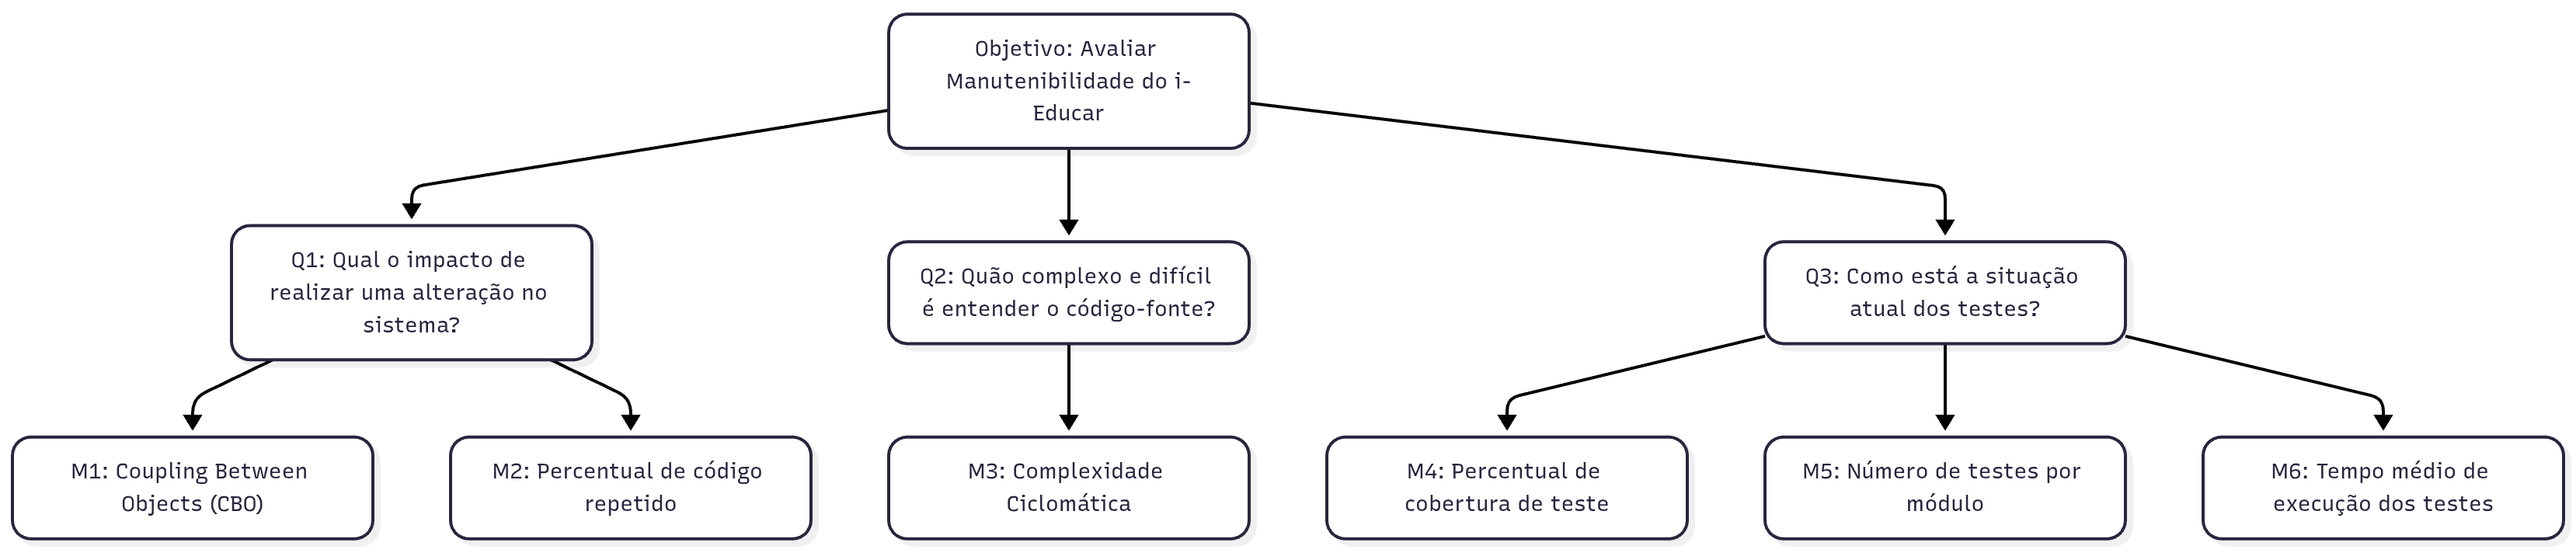
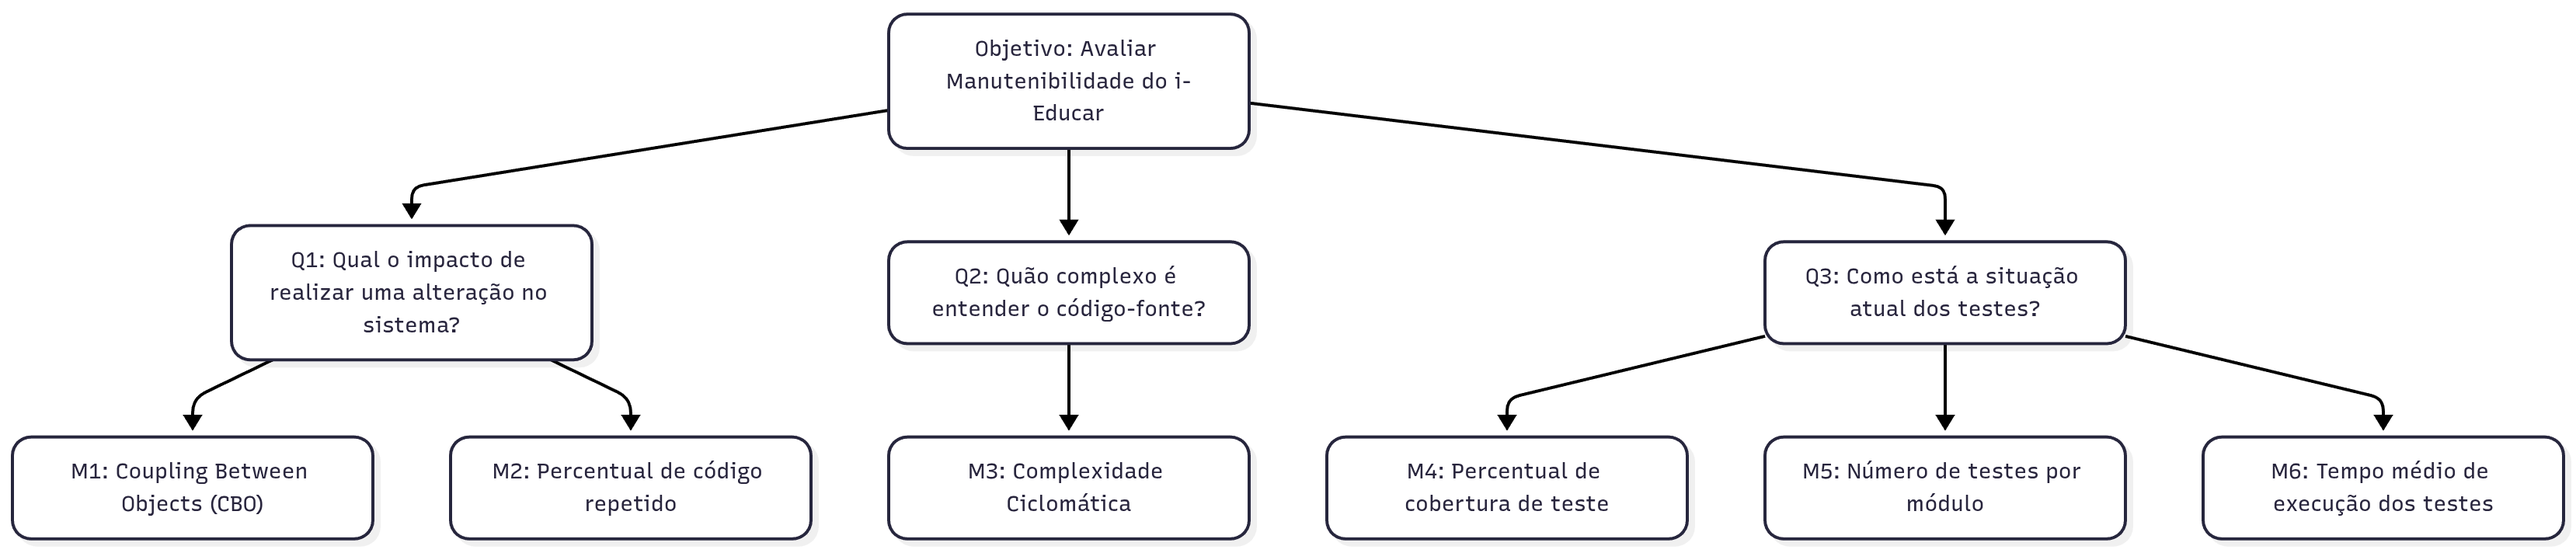
padronizei as legendas das imagens e tabelas

Changed region(s): [[0.3417, 0.4635, 0.4659, 0.5871]]

diff --git a/docs/fase_1/modelo-qualidade.md b/docs/fase_1/modelo-qualidade.md
@@ -2,6 +2,10 @@
 
 ![Modelo de qualidade](../assets/modelo-qualidade.jpg)
 
+<div align="center">
+  <font size="4"><figcaption>Figura 3: Modelo de Qualidade</figcaption></font>
+</div>
+
 ## Características de Qualidade
 
 Para a avaliação de qualidade do software i-Educar, foram selecionadas e priorizadas três características do modelo de qualidade de produto da norma ISO/IEC 25010: **Confiabilidade**, **Segurança** e **Manutenibilidade**. A escolha foi guiada por um método explícito e quantitativo para garantir uma decisão robusta, alinhada aos objetivos do negócio e às necessidades dos stakeholders.
@@ -34,6 +38,10 @@ A análise resultou na seguinte classificação, que abrange todas as caracterí
 | Compatibilidade | 2 | 2 | 3 | 1,3 | — |
 | Portabilidade | 2 | 1 | 2 | 1,0 | — |
 
+<div align="center">
+  <font size="4"><figcaption>Tabela 1: Classificação das características</figcaption></font>
+</div>
+
 ### 3. Justificativas da Priorização
 
 A seleção das três características principais é justificada pelo contexto crítico do i-Educar como um sistema de gestão educacional para o setor público.
@@ -44,8 +52,16 @@ A seleção das três características principais é justificada pelo contexto c
 | **2. Segurança** | A Segurança (Peso 10,0) é fundamental, pois o sistema processa um grande volume de dados pessoais e sensíveis de menores de idade, enquadrando-se diretamente nas exigências da Lei Geral de Proteção de Dados (LGPD). Uma falha de segurança exporia dados, resultaria em sanções legais e quebraria a confiança da comunidade. <br> **Stakeholders:** Essencial para **Gestores educacionais** (compliance regulatório), **Alunos/Responsáveis** (proteção de sua privacidade) e **Desenvolvedores** (uma única vulnerabilidade pode comprometer toda a aplicação). |
 | **3. Manutenibilidade**| A Manutenibilidade (Peso 8,0) é crucial para a sustentabilidade de um projeto de software livre como o i-Educar. Sua arquitetura legada exige esforço contínuo de evolução, correção de bugs e adaptação a novas regulamentações. Um código de fácil manutenção reduz o custo de propriedade a longo prazo e incentiva a colaboração. <br> **Stakeholders:** Facilita o trabalho da **Comunidade OSS** (contribuições e correções), reduz custos para os **Órgãos públicos** e viabiliza a customização por **Fornecedores** locais. |
 
+<div align="center">
+  <font size="4"><figcaption>Tabela 2: Justificativas das características priorizadas</figcaption></font>
+</div>
+
 O diagrama abaixo representa o organograma das características e subcaracterísticas escolhidas para o processo de avaliação de qualidade do i-Educar:
 ![Organograma das características e subcaracterísticas](../assets/caracteristicas-organograma%20.png)
+
+<div align="center">
+  <font size="4"><figcaption>Figura 4: Organograma das características selecionadas</figcaption></font>
+</div>
 
 ### 4. Trade-offs Estratégicos Considerados
 

diff --git a/docs/index.md b/docs/index.md
@@ -10,10 +10,6 @@ O i-Educar é um software livre que descomplica e torna mais eficaz a gestão do
 
 A plataforma é utilizada por mais de 80 municípios brasileiros, atende mais de 2050 alunos e impacta mais de 500.000 alunos. Por conta de sua relevância e do contexto educacional que ele visa impactar, o grupo teve forte interesse em utilizá-lo como software de análise na disciplina.
 
-<div align="center">
-  <font size="4"><p style="text-align: center; margin-bottom: 50px;"><b>Figura 1: Logo i-Educar</b></p></font>
-</div>
-
 <div
     align="center">
     <img
@@ -21,6 +17,10 @@ A plataforma é utilizada por mais de 80 municípios brasileiros, atende mais de
     alt="Logo do i-Educar"
     style=" max-width: 80%; height: auto; margin-bottom: 20px;"
     >
+</div>
+
+<div align="center">
+  <font size="4"><figcaption>Figura 1: Logo i-Educar</figcaption></font>
 </div>
 
 ---
@@ -44,10 +44,6 @@ Após a guerra, Herman Goldstine passou a integrar o **Instituto de Estudos Avan
 
 Adele Goldstine é reconhecida como uma das figuras fundamentais da história da computação. Seu trabalho abriu espaço para mulheres na área, num contexto em que sua atuação era muitas vezes invisibilizada. Hoje, sua biografia inspira pesquisas acadêmicas e movimentos pela valorização das pioneiras da ciência e tecnologia.
 
-<div align="center">
-  <font size="4"><p style="text-align: center; margin-bottom: 50px;"><b>Figura 2: Adele Goldstine</b></p></font>
-</div>
-
 <div
     align="center">
     <img
@@ -55,6 +51,10 @@ Adele Goldstine é reconhecida como uma das figuras fundamentais da história da
     alt="Retrato da Adele Goldstine"
     style=" max-width: 80%; height: auto; margin-bottom: 20px;"
     >
+</div>
+
+<div align="center">
+  <font size="4"><figcaption>Figura 2: Adele Goldstine</figcaption></font>
 </div>
 
 ---

diff --git a/docs/fase_2/gqm_manutenibilidade.md b/docs/fase_2/gqm_manutenibilidade.md
@@ -11,10 +11,14 @@ O objetivo de medição está definido conforme o template GQM (Goal-Question-Me
 | Elemento | Descrição |
 |----------|-----------|
 | Analisar | i-Educar |
-| Propósito | AVALIAR |
-| Respeito a | MANUTENIBILIDADE |
-| Ponto de Vista | EQUIPE DE DESENVOLVIMENTO |
-| Contexto | DISCIPLINA DE QUALIDADE DE SOFTWARE 1 |
+| Propósito | Avaliar |
+| Respeito a | Manutenibilidade |
+| Ponto de Vista | Equipe de desenvolvimento |
+| Contexto | Disciplina de Qualidade de Software 1 |
+
+<div align="center">
+  <font size="4"><figcaption>Tabela 2: Objetivo de Medição: Manutenibilidade</figcaption></font>
+</div>
 
 ## Perguntas, Hipóteses e Métricas
 
@@ -32,7 +36,7 @@ Este objetivo se desdobra em três perguntas chave, cada uma abordando um aspect
 | **M1: Coupling Between Objects (CBO)** | ✅ **Bom:** CBO ≤ 10<br>⚠ **Aceitável:** 10 < CBO ≤ 15<br>❌ **Crítico:** CBO > 15 |
 | **M2: Percentual de Código Repetido** | ✅ **Bom:** M2 ≤ 3%<br>⚠ **Aceitável:** 3% < M2 ≤ 5%<br>❌ **Crítico:** M2 > 5% |
 
-### Pergunta 2: Quão complexo e difícil é entender o código-fonte do i-Educar?
+### Pergunta 2: Quão complexo é entender o código-fonte do i-Educar?
 
 | Item | Descrição |
 |------|-----------|
@@ -71,5 +75,8 @@ Este objetivo se desdobra em três perguntas chave, cada uma abordando um aspect
 
 
 ![Diagrama](../assets/GQM-manutenibilidade.png)
-<figcaption>Figura 1: Diagrama GQM. Autor: <a href="http://github.com/andre-maia51">André Maia</figcaption>
+
+<div align="center">
+  <font size="4"><figcaption>Figura 3: Diagrama GQM. Autor: <a href="http://github.com/andre-maia51">André Maia</figcaption></font>
+</div>
 

diff --git a/docs/fase_1/objeto-estudo.md b/docs/fase_1/objeto-estudo.md
@@ -27,6 +27,10 @@ A arquitetura do i-Educar é modular, o que facilita a análise de componentes e
 
 ![Arquitetura do i-Educar](../assets/arquitetura.png)
 
+<div align="center">
+  <font size="4"><figcaption>Figura 1: Diagrama de alto nível dos módulos do i-Educar</figcaption></font>
+</div>
+
 Essa estrutura de código aberto tem implicações diretas na nossa avaliação:
 
 * **O que é possível medir:** Dado o acesso completo ao código-fonte no GitHub, podemos realizar uma análise estática aprofundada da **Manutenibilidade** do software, utilizando ferramentas para medir a complexidade do código, a duplicação e a aderência a padrões de desenvolvimento. Da mesma forma, a **Segurança** pode ser avaliada através da busca por vulnerabilidades conhecidas no código.
@@ -64,6 +68,10 @@ O i-Educar se classifica como um **Sistema de Gestão Educacional (SGE)** de có
 Aqui descrevemos os Objetivos de Desenvolvimento Sustentável com os quais o i-Educar se conecta, com metas/indicadores relevantes e justificativas de como o software pode contribuir para alcançá-los.
 
 ![ODS relacionada](../assets/ods.png)
+
+<div align="center">
+  <font size="4"><figcaption>Figura 2: Objetivos de Desenvolvimento Sustentável relacionados ao projeto</figcaption></font>
+</div>
 
 ### ODS 4 — Educação de Qualidade
 

diff --git a/docs/fase_2/gqm_seguranca.md b/docs/fase_2/gqm_seguranca.md
@@ -14,9 +14,9 @@ A análise de segurança do sistema i-Educar tem como propósito fundamental gar
 | **Do ponto de vista da** | Equipe de desenvolvimento                                              |
 | **No contexto da**       | Disciplina de Qualidade de Software 1 (FCTE - UnB)                     |
 
-
-<p align="center"><b>Tabela 3</b> - Objetivo de Medição 3: Segurança</p>
-
+<div align="center">
+  <font size="4"><figcaption>Tabela 3: Objetivo de Medição: Segurança</figcaption></font>
+</div>
 
 Utilizando o modelo Goal Question Metric (GQM), essa análise traduz a preocupação abstrata com a segurança em metas mensuráveis, por meio das seguintes diretrizes:
 
@@ -111,5 +111,7 @@ Esta análise contextualiza a segurança não apenas como um requisito técnico,
 
 ![Relação entre a Segurança, Perguntas e Métricas](../assets/diagrama_seguranca.png)
 
-<p align="center"><b>Figura 3</b> - Diagrama ilustrando a relação entre a característica de Segurança, as perguntas formuladas e as métricas definidas na abordagem GQM.</p>
+<div align="center">
+  <font size="4"><figcaption>Figura 4: Diagrama ilustrando a relação entre a característica de Segurança, as perguntas formuladas e as métricas definidas na abordagem GQM.</figcaption></font>
+</div>
 

diff --git a/docs/fase_2/gqm_confiabilidade.md b/docs/fase_2/gqm_confiabilidade.md
@@ -7,7 +7,10 @@
 | **Do ponto de vista da** | Comunidade de desenvolvedores |
 | **No contexto da**     | Disciplina de Qualidade de Software |
 
-**Tabela 1** - Objetivo de Medição 1: Confiabilidade.
+<div align="center">
+  <font size="4"><figcaption>Tabela 1: Objetivo de Medição: Confiabilidade</figcaption></font>
+</div>
+
 ---
 
 ### Perguntas e Hipóteses de Medição
@@ -107,5 +110,6 @@ A professora achou que tinha muita coisa
 
 ![Relação entre a Confiabilidade, Perguntas e Métricas](../assets/diagrama_confiabilidade.png)
 
-<p align="center"><b>Figura 1</b> - Diagrama ilustrando a relação entre a característica de Confiabilidade, as perguntas formuladas e as métricas definidas na abordagem GQM.</p>
-
+<div align="center">
+  <font size="4"><figcaption>Figura 2: Diagrama ilustrando a relação entre a característica de Confiabilidade, as perguntas formuladas e as métricas definidas na abordagem GQM.</figcaption></font>
+</div>

diff --git a/docs/fase_2/niveis_pontuacao_criterios_julgamento.md b/docs/fase_2/niveis_pontuacao_criterios_julgamento.md
@@ -17,6 +17,10 @@ A seguir, apresenta-se a escala de pontuação definida pela equipe:
 | **Regular** | 4 - 6 | Apresenta deficiências perceptíveis que podem indicar débito técnico ou risco moderado. |
 | **Insatisfatório** | 1 - 3 | Compromete significativamente a característica de qualidade, exigindo atenção e provável refatoração. |
 
+<div align="center">
+  <font size="4"><figcaption>Tabela 4: Níveis de pontuação e critérios de julgamento</figcaption></font>
+</div>
+
 ### Critérios para Julgamento
 
 Com base nas métricas e nos níveis de pontuação definidos, foram estabelecidos critérios de julgamento para interpretar os resultados da avaliação e apoiar a tomada de decisões. Os critérios são organizados por característica e baseiam-se na média de desempenho das métricas associadas a cada uma delas.

diff --git a/docs/fase_2/introducao_gqm.md b/docs/fase_2/introducao_gqm.md
@@ -15,4 +15,6 @@ A abordagem GQM garante que a avaliação de cada uma dessas características es
 Essa metodologia é, portanto, essencial para analisar de forma aprofundada as características priorizadas e garantir o sucesso, a conformidade e a longevidade do sistema.
 
 ![As quatro fases do GQM](../assets/fases_gqm.png)
-<figcaption>Figura 1: As Quatro Fases do GQM. Autor: Basili e Weiss, 1984</figcaption>
+<div align="center">
+  <font size="4"><figcaption>Figura 1: As Quatro Fases do GQM. Autor: Basili e Weiss, 1984</figcaption></font>
+</div>
